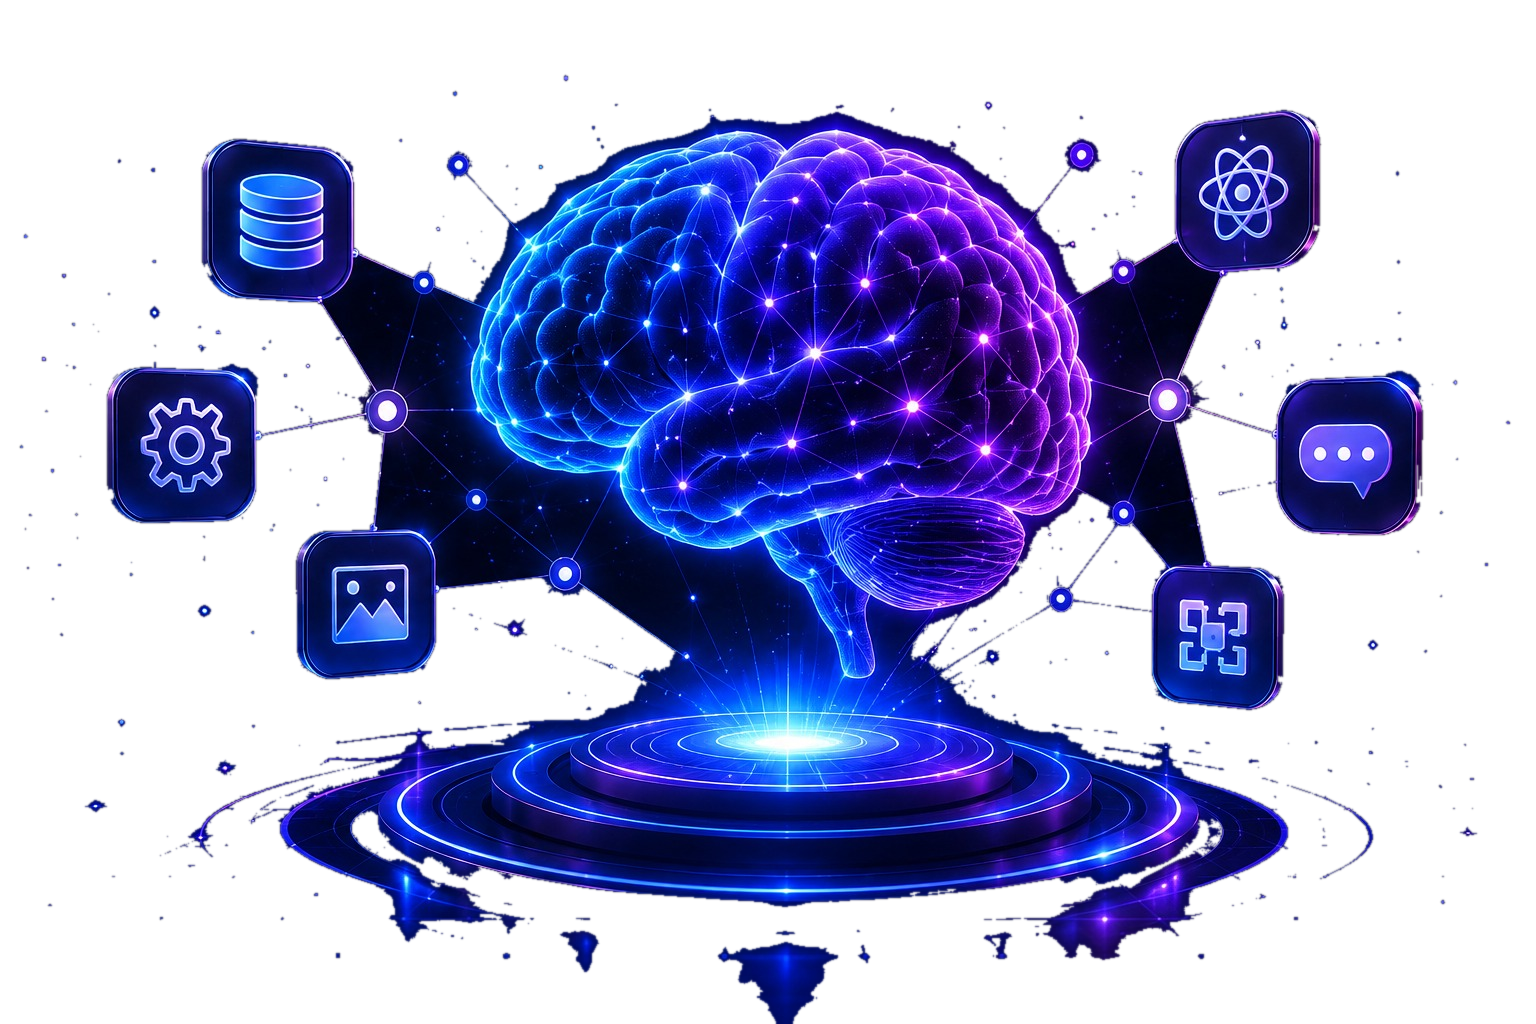
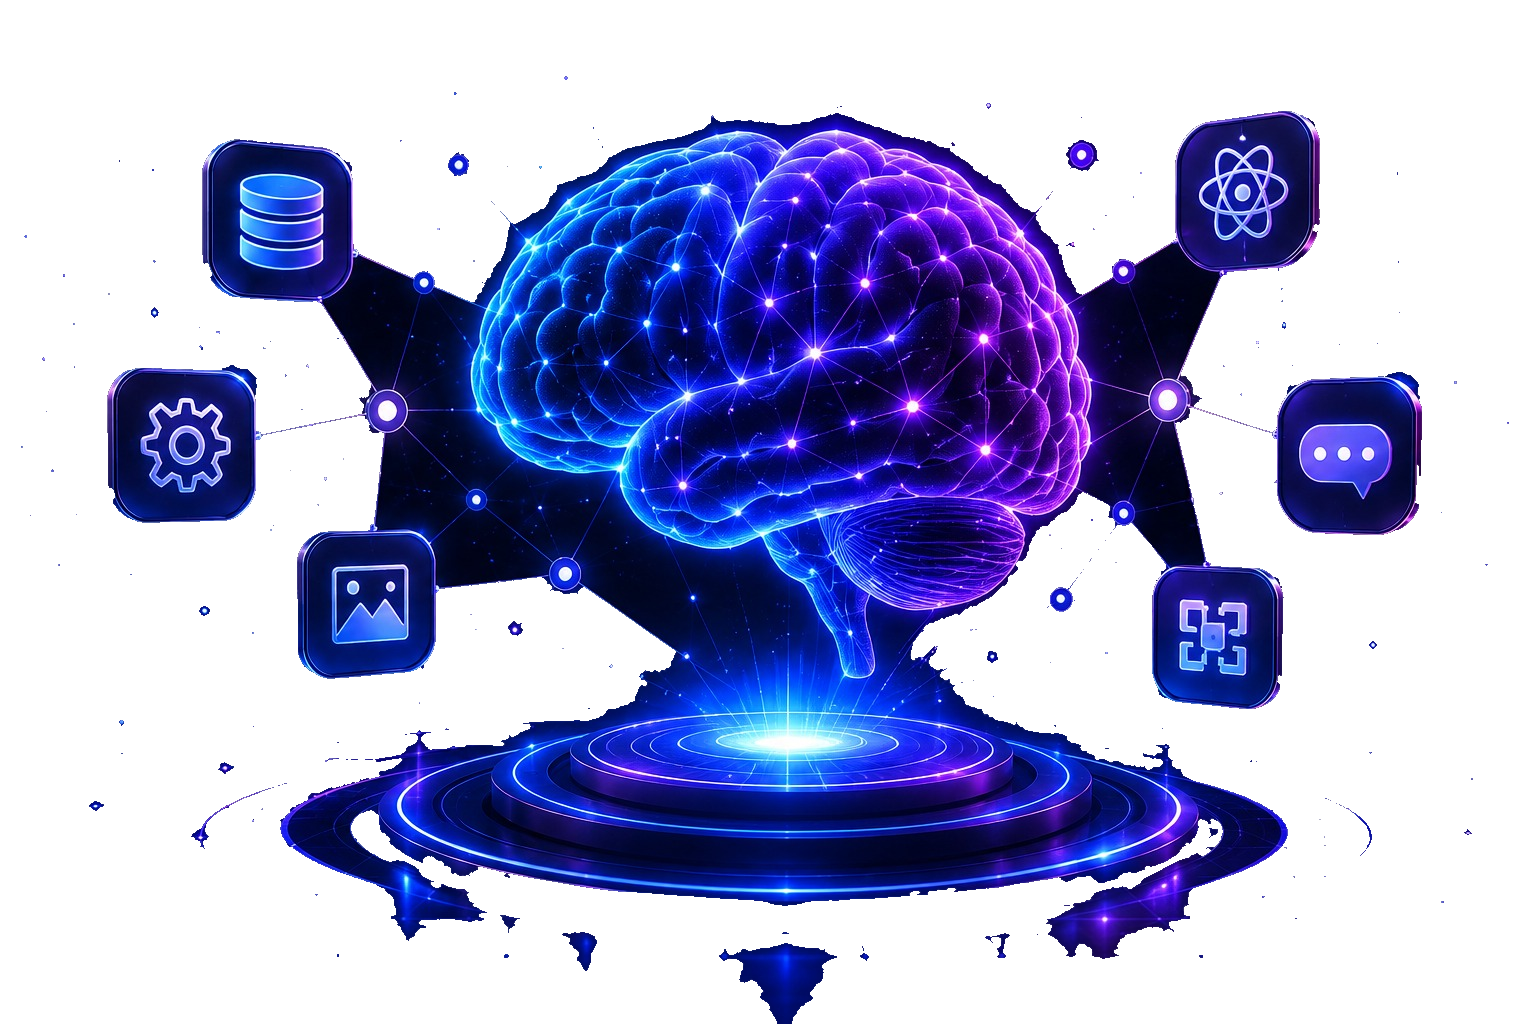
Clean PNG dark alpha halos and optimize 3D visual styling for white theme

diff --git a/orbitonetechsolutions/orbitone/src/components/Hero3DVisual.jsx b/orbitonetechsolutions/orbitone/src/components/Hero3DVisual.jsx
@@ -78,7 +78,7 @@ export default function Hero3DVisual() {
         }}
       >
         <img
-          src={theme === 'light' ? '/assets/robo-light.png' : roboImg}
+          src={roboImg}
           alt="Orbitone Technology Ecosystem"
           className="floating-image"
           style={{
@@ -91,8 +91,8 @@ export default function Hero3DVisual() {
             transform: 'translateZ(45px)',
             filter: theme === 'light'
               ? (isHovered
-                ? `drop-shadow(${-rotate.y * 2}px ${-rotate.x * 2}px 25px rgba(45, 140, 255, 0.2)) contrast(1.04) brightness(1.05) saturate(1.05)`
-                : 'drop-shadow(0 10px 20px rgba(45, 140, 255, 0.12)) contrast(1.02) brightness(1.03)')
+                ? `drop-shadow(${-rotate.y * 2}px ${-rotate.x * 2}px 25px rgba(11, 25, 44, 0.15))`
+                : 'drop-shadow(0 14px 28px rgba(11, 25, 44, 0.08))')
               : (isHovered
                 ? `drop-shadow(${-rotate.y * 2.5}px ${-rotate.x * 2.5}px 45px rgba(45, 140, 255, 0.5))`
                 : 'drop-shadow(0 18px 35px rgba(0, 0, 0, 0.45))'),

diff --git a/orbitonetechsolutions/orbitone/src/components/Section3DVisual.jsx b/orbitonetechsolutions/orbitone/src/components/Section3DVisual.jsx
@@ -131,8 +131,8 @@ export default function Section3DVisual({ src, alt, glowColor = 'rgba(45, 140, 2
             transform: 'translateZ(35px)',
             filter: theme === 'light'
               ? (isHovered
-                ? `drop-shadow(${-rotate.y * 1.8}px ${-rotate.x * 1.8}px 25px ${hoverShadowColor}) contrast(1.04) brightness(1.05) saturate(1.05)`
-                : `drop-shadow(0 10px 20px ${defaultShadowColor}) contrast(1.02) brightness(1.03)`)
+                ? `drop-shadow(${-rotate.y * 1.8}px ${-rotate.x * 1.8}px 25px rgba(11, 25, 44, 0.12))`
+                : 'drop-shadow(0 12px 26px rgba(11, 25, 44, 0.07))')
               : (isHovered
                 ? `drop-shadow(${-rotate.y * 2.2}px ${-rotate.x * 2.2}px 35px ${hoverShadowColor})`
                 : `drop-shadow(0 15px 30px ${defaultShadowColor})`),

diff --git a/orbitonetechsolutions/orbitone/src/pages/Home.jsx b/orbitonetechsolutions/orbitone/src/pages/Home.jsx
@@ -12,7 +12,7 @@ export default function Home() {
   const [showVideoModal, setShowVideoModal] = useState(false);
 
   return (
-    <div style={{ position: 'relative', width: '100%', background: 'var(--deep-navy)', minHeight: '100vh' }}>
+    <div style={{ position: 'relative', width: '100%', background: 'var(--bg-deep)', minHeight: '100vh' }}>
       {/* Fixed Sticky Top Navbar */}
       <Navbar />
 
